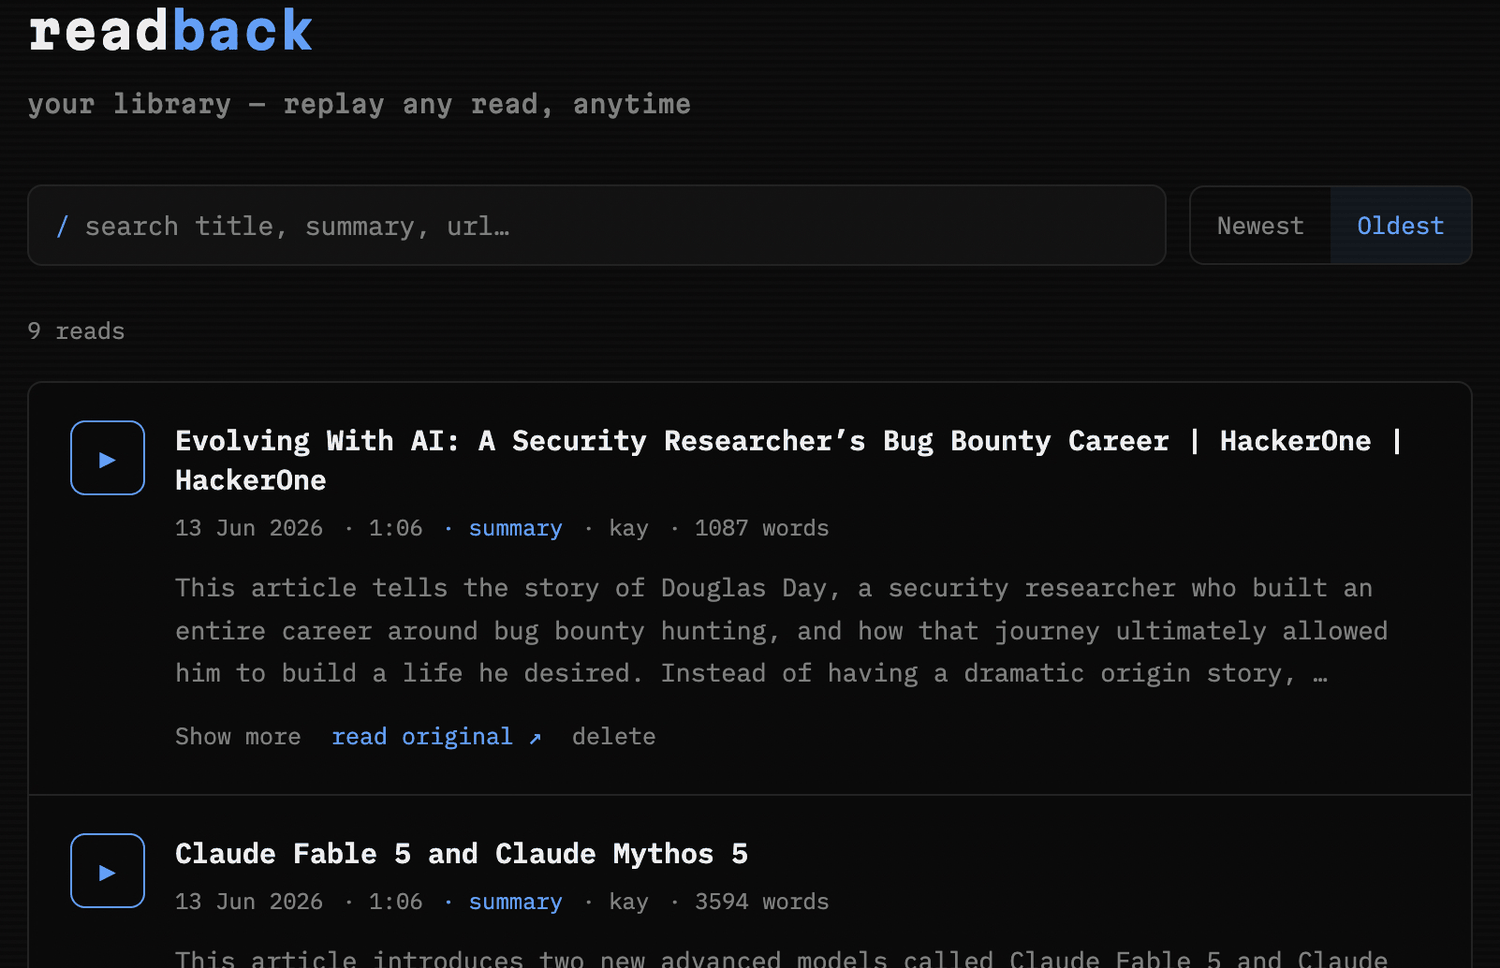
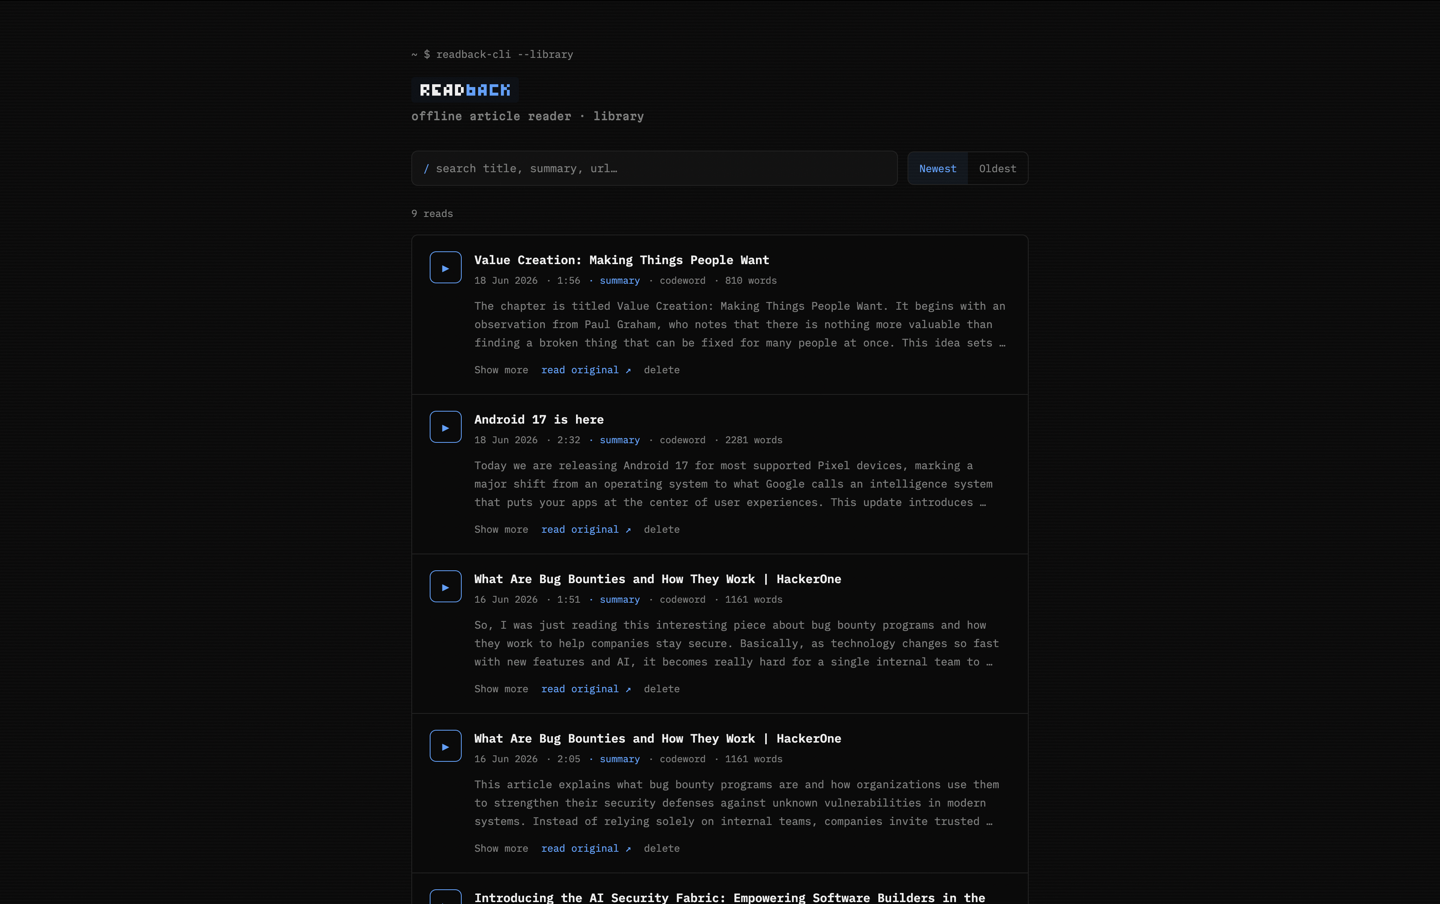
ui: dashboard pixel wordmark + new screenshots (help, lib, dashboard)
Dashboard: replace text wordmark with the pixel wordmark PNG (same
identity as the CLI block-art). Served from public/wordmark.png,
image-rendering: pixelated.

Media: add cli-help.png and cli-lib.png, refresh dashboard.png with
the updated header. All three added to README, landing page stepper
(6 slides), and pages.yml workflow.

diff --git a/src/landing-page/index.html b/src/landing-page/index.html
@@ -53,6 +53,8 @@
       <img class="demo-slide on" src="media/cli-home.png" alt="readback CLI home screen: paste a URL, slash commands for voice, mode, and model" data-cap="Open it — paste a URL; /voice, /mode, /model do the rest.">
       <img class="demo-slide" src="media/cli-model.png" alt="readback CLI /model list: local Ollama models with RAM-fit verdicts and a recommendation" loading="lazy" data-cap="Pick a summary model — every local Ollama model, sized against your RAM.">
       <img class="demo-slide" src="media/cli-player.png" alt="readback CLI mid-read: seekable terminal player with live word-by-word transcript highlighting" loading="lazy" data-cap="Listen — seek ±5 s, with a transcript that highlights word by word.">
+      <img class="demo-slide" src="media/cli-lib.png" alt="readback CLI library browser with selected-item metadata and summary preview" loading="lazy" data-cap="Browse — every past read in a scannable list; metadata and a preview for the selected item.">
+      <img class="demo-slide" src="media/cli-help.png" alt="readback CLI help screen with structured command and player key reference" loading="lazy" data-cap="All commands and player keys — /help lays them out at a glance.">
       <img class="demo-slide" src="media/dashboard.png" alt="readback web dashboard: a searchable library of past reads with an inline player and word-synced transcript" loading="lazy" data-cap="Replay anytime — every read saved to a searchable web dashboard.">
     </div>
     <div class="demo-progress" aria-hidden="true"><span class="demo-progress-fill" id="demo-progress"></span></div>
@@ -60,7 +62,9 @@
       <button class="demo-step on" role="tab" aria-label="Step 1: open"><span class="k"><span class="num">01</span> OPEN</span><span class="t">paste a URL</span></button>
       <button class="demo-step" role="tab" aria-label="Step 2: model"><span class="k"><span class="num">02</span> MODEL</span><span class="t">pick the LLM</span></button>
       <button class="demo-step" role="tab" aria-label="Step 3: listen"><span class="k"><span class="num">03</span> LISTEN</span><span class="t">play + transcript</span></button>
-      <button class="demo-step" role="tab" aria-label="Step 4: replay"><span class="k"><span class="num">04</span> REPLAY</span><span class="t">dashboard library</span></button>
+      <button class="demo-step" role="tab" aria-label="Step 4: library"><span class="k"><span class="num">04</span> LIBRARY</span><span class="t">browse past reads</span></button>
+      <button class="demo-step" role="tab" aria-label="Step 5: help"><span class="k"><span class="num">05</span> HELP</span><span class="t">command reference</span></button>
+      <button class="demo-step" role="tab" aria-label="Step 6: dashboard"><span class="k"><span class="num">06</span> DASHBOARD</span><span class="t">web library</span></button>
     </div>
     <p class="dim small demo-cap">Open it — paste a URL; /voice, /mode, /model do the rest.</p>
   </section>

diff --git a/src/dashboard/src/App.vue b/src/dashboard/src/App.vue
@@ -166,8 +166,8 @@ onBeforeUnmount(() => {
   <main class="wrap">
     <header class="head">
       <p class="prompt-line"><span>~ $</span> readback-cli --library<span class="caret"></span></p>
-      <div class="wordmark">read<span class="accent">back</span></div>
-      <p class="subtitle">your library — replay any read, anytime</p>
+      <img class="wordmark-img" src="/wordmark.png" alt="readback" height="32">
+      <p class="subtitle">offline article reader · library</p>
     </header>
 
     <div class="controls">

diff --git a/src/dashboard/src/styles.css b/src/dashboard/src/styles.css
@@ -74,14 +74,12 @@ button { font: inherit; cursor: pointer; }
 
 @keyframes blink { 50% { opacity: 0; } }
 
-.wordmark {
-  font-family: "Martian Mono", monospace;
-  font-weight: 700;
-  font-size: 26px;
-  letter-spacing: 0.04em;
+.wordmark-img {
+  display: block;
+  height: 32px;
+  width: auto;
+  image-rendering: pixelated;
 }
-
-.wordmark .accent { color: var(--accent); }
 
 .subtitle {
   font-family: "Martian Mono", monospace;

diff --git a/README.md b/README.md
@@ -161,6 +161,16 @@ only. Details: [`src/cli/README.md`](src/cli/README.md).
   <sub><code>/model</code> — every local Ollama model, sized up against your Mac's RAM before you commit.</sub>
 </p>
 
+<p align="center">
+  <img src="docs/media/cli-lib.png" alt="readback CLI — /lib library browser with selected-item preview" width="640"><br>
+  <sub><code>/lib</code> — browse past reads; metadata and a summary preview appear for the selected item.</sub>
+</p>
+
+<p align="center">
+  <img src="docs/media/cli-help.png" alt="readback CLI — /help command reference" width="640"><br>
+  <sub><code>/help</code> — every command and player key at a glance.</sub>
+</p>
+
 On the **first read**, the CSM-1B weights (~6 GB) download from Hugging Face (no
 login) and the MLX graph warms up — so the first synthesis is slow; later runs
 are fast. See [SETUP.md](docs/SETUP.md) for verification, flags, and troubleshooting.
